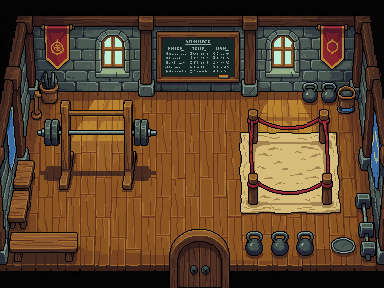
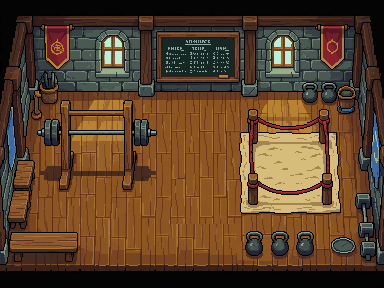
PR Club: a modern running track, a front-facing studio and auction block, and no door under you in the gym
Claude-Session: https://claude.ai/code/session_011BsTvjfX9uWFTtq1jmEw8e

Changed region(s): [[0.4375, 0.7812, 0.625, 1.0]]

diff --git a/game/js/club.js b/game/js/club.js
@@ -63,8 +63,8 @@
     const g = Array.from({ length: H }, (_, y) => Array.from({ length: W }, (_, x) => (x === 0 || y === 0 || x === W - 1 || y === H - 1) ? 'T' : '.'));
     const rect = (x0, y0, x1, y1, c) => { for (let y = y0; y <= y1; y++) for (let x = x0; x <= x1; x++) g[y][x] = c; };
     rect(11, 3, 20, 9, '#'); g[9][15] = 'G'; g[9][16] = 'G';                // the gym
-    rect(3, 4, 8, 8, '#'); g[8][5] = 'U';                                     // the studio, stairs on the front
-    rect(1, 12, 16, 13, 'p'); rect(15, 10, 16, 11, 'p'); rect(5, 9, 5, 11, 'p'); rect(17, 12, 22, 12, 'p');
+    rect(3, 4, 8, 8, '#'); g[8][4] = 'U';                                     // the studio, stairs up the front
+    rect(1, 12, 16, 13, 'p'); rect(15, 10, 16, 11, 'p'); rect(4, 9, 4, 11, 'p'); rect(17, 12, 22, 12, 'p');
     rect(16, 14, 16, 14, 'p');                                                // to the track (SD.clubArt.track, painted by under())
     rect(23, 10, 24, 11, '#'); rect(26, 11, 27, 11, '#');                     // auction block, weights
     rect(15, 19, 16, 19, '#');                                                // the segment board, in the infield
@@ -76,7 +76,7 @@
       objects: [
         { name: 'pr-gym', x: 15.5, y: 9 }, { name: 'pr-studio', x: 5.5, y: 8.4 },
         { name: 'pr-block', x: 23.5, y: 11 }, { name: 'pr-weights', x: 26.5, y: 11 }, { name: 'pr-board', x: 15.5, y: 19.2 },
-        { name: 'nr-signpost', x: 2, y: 10.6 }, { name: 'nr-fence', x: 20, y: 9.6 }, { name: 'nr-fence', x: 10.6, y: 14.6 },
+        { name: 'nr-signpost', x: 2, y: 10.6 }, { name: 'nr-fence', x: 20, y: 9.6 },
         { name: 'nr-rock', x: 30, y: 19 }
       ],
       labels: [
@@ -88,7 +88,7 @@
         imani: { x: 22, y: 11, face: 'south', name: 'IMANI' }, magnus: { x: 25, y: 12, face: 'west', name: 'MAGNUS' },
         bidder: { x: 23, y: 14, face: 'north', name: 'BIDDER', sprite: 'v1' }
       },
-      back: { E: [1, 12, 'east'], G: [15, 10, 'south'], U: [5, 9, 'south'] }, enter: [1, 12, 'east'],
+      back: { E: [1, 12, 'east'], G: [15, 10, 'south'], U: [4, 9, 'south'] }, enter: [1, 12, 'east'],
       music: 'ch8', weather: 'sun',
       // The running track: one picture laid on the grass under everything else (made by tools/club_art.py).
       under(ctx, ts) {
@@ -120,7 +120,7 @@
   // ---------- The gym hall and the studio (rooms in js/interiors.js) ----------
   if (I && I.ROOMS) {
     I.ROOMS.prgym = {
-      name: 'THE PR CLUB', map: ['############', '############', '############', '#.###...####', '#.###...####',
+      name: 'THE PR CLUB', mat: true, map: ['############', '############', '############', '#.###...####', '#.###...####',
         '#.###...####', '#.......####', '###.....####', '#####DD#####'],
       enter: [5, 7, 'north'],
       spots: { sunny: [6, 3, 'south'], leon: [1, 5, 'east'], thea: [7, 6, 'east'], rico: [9, 4, 'south'] },

diff --git a/game/js/club-art.js b/game/js/club-art.js
@@ -1,2 +1,2 @@
 // Made by tools/club_art.py: sizes of the PR Club's sprites, props and rooms.
-SD.clubArt = {"chars": {"sunny": {"w": 28, "h": 54, "n": [0, 0, 0, 0]}, "leon": {"w": 48, "h": 53, "n": [0, 0, 0, 0]}, "delphine": {"w": 44, "h": 56, "n": [0, 0, 0, 0]}, "kofi": {"w": 22, "h": 61, "n": [0, 0, 0, 0]}, "paz": {"w": 28, "h": 58, "n": [0, 0, 0, 0]}, "kenji": {"w": 36, "h": 56, "n": [0, 0, 0, 0]}, "imani": {"w": 26, "h": 58, "n": [0, 0, 0, 0]}, "magnus": {"w": 34, "h": 53, "n": [0, 0, 0, 0]}, "thea": {"w": 26, "h": 58, "n": [0, 0, 0, 0]}, "rico": {"w": 32, "h": 57, "n": [0, 0, 0, 0]}}, "objects": {"pr-gym": [310, 264], "pr-studio": [187, 184], "pr-block": [84, 93], "pr-weights": [71, 54], "pr-board": [96, 99], "pr-judge": [108, 75]}, "rooms": {"prgym": [384, 288], "prstudio": [384, 288]}, "track": [78, 472, 868, 240]};
+SD.clubArt = {"chars": {"sunny": {"w": 28, "h": 54, "n": [0, 0, 0, 0]}, "leon": {"w": 48, "h": 53, "n": [0, 0, 0, 0]}, "delphine": {"w": 44, "h": 56, "n": [0, 0, 0, 0]}, "kofi": {"w": 22, "h": 61, "n": [0, 0, 0, 0]}, "paz": {"w": 28, "h": 58, "n": [0, 0, 0, 0]}, "kenji": {"w": 36, "h": 56, "n": [0, 0, 0, 0]}, "imani": {"w": 26, "h": 58, "n": [0, 0, 0, 0]}, "magnus": {"w": 34, "h": 53, "n": [0, 0, 0, 0]}, "thea": {"w": 26, "h": 58, "n": [0, 0, 0, 0]}, "rico": {"w": 32, "h": 57, "n": [0, 0, 0, 0]}}, "objects": {"pr-gym": [310, 264], "pr-studio": [168, 182], "pr-block": [85, 100], "pr-weights": [71, 54], "pr-board": [96, 99], "pr-judge": [108, 75]}, "rooms": {"prgym": [384, 288], "prstudio": [384, 288]}, "track": [78, 472, 868, 240]};

diff --git a/game/tools/club_art.py b/game/tools/club_art.py
@@ -105,6 +105,10 @@ for name in OBJECTS:
 
 for room in ['gym', 'studio']:
     im = Image.open(os.path.join(SRC, 'rooms', room + '.png')).convert('RGB')
+    if room == 'gym':
+        # The arched door at the bottom drew under you as you walked in, so it is floored over with the planks two
+        # tiles to its left, and the room uses a doormat instead (mat: true in js/club.js).
+        im.paste(im.crop((100, 224, 168, 288)), (168, 224))
     save(im, os.path.join(IMG, 'interiors', 'r-pr' + room + '.webp'))
     manifest['rooms']['pr' + room] = list(im.size)
 
